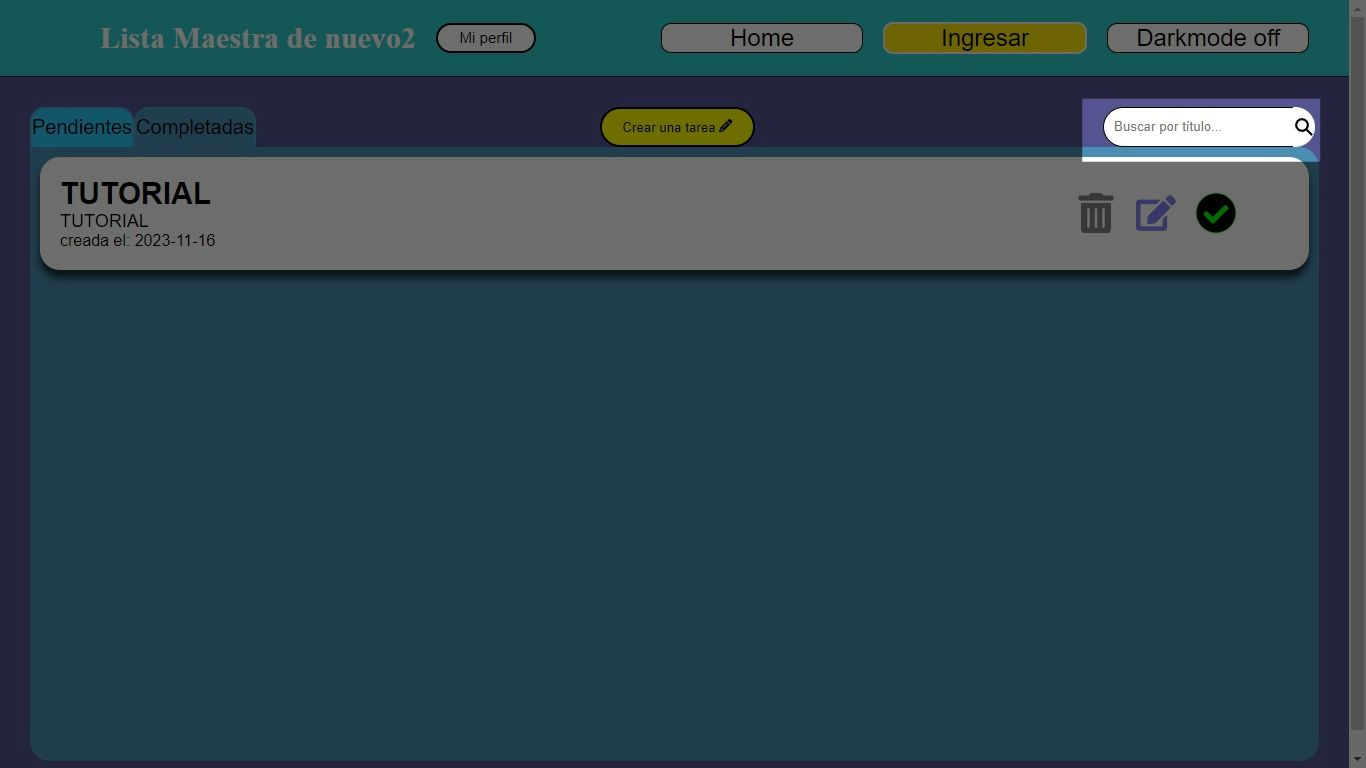
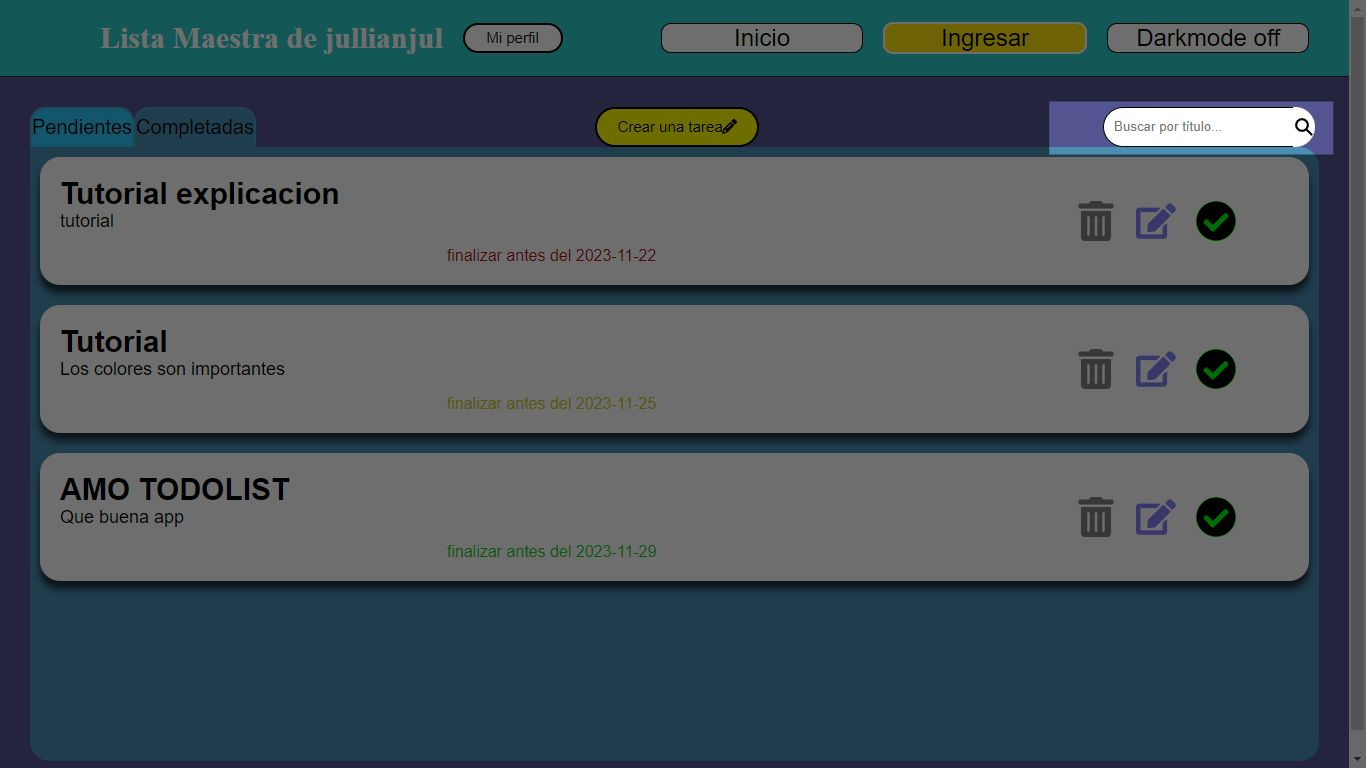
JODER QUE BUENO Q SOY, ahora las todos tienen tiempo de vencimiento, tienen indicadores cromaticos los cuales le comunican al usuario la urgencia de la tarea y las tareas son mostradas en orden desde la mas urgente a la menos urgente

diff --git a/src/Todolistappfunctions/Todofunctions.jsx b/src/Todolistappfunctions/Todofunctions.jsx
@@ -113,6 +113,21 @@ export const Todofunctions = () => {
     return titleMatch && filterCondition;
   });
 
+  const sortedTodos = filteredTodos.sort((a, b) => {
+    const dateA = new Date(a.finishDate);
+    const dateB = new Date(b.finishDate);
+    return dateA - dateB; // Orden ascendente, cambia a dateB - dateA para orden descendente
+  });
+
+  const getDaysRemaining = (finishDate) => {
+    const currentDate = new Date();
+    const finishDateTime = new Date(finishDate);
+    const timeDifference = finishDateTime.getTime() - currentDate.getTime();
+    const daysDifference = Math.ceil(timeDifference / (1000 * 3600 * 24));
+    return daysDifference;
+  };
+
+  //{getDaysRemaining(todo.finishDate.substring(0, 10))}
   return (
     <>
     {itsfirsttime.tutorial && <Firsttimetutorial/>}
@@ -146,18 +161,20 @@ export const Todofunctions = () => {
                 <p>Cargando...</p>
               </div>
             ) : (
-              filteredTodos.length === 0 ? (
+              sortedTodos.length === 0 ? (
 
                 <div className={'no-todos-message'+' no-todos-message'+darkmode}>
                   {itsfirsttime.firstimemessage ? <p>Bienvenido a Tu lista maestra {currentUser.firstName} <br /> crea tu primera tarea para comenzar tu aventura</p> : <p>No hay tareas que coincidan con la búsqueda o filtro seleccionado.</p>}
                 </div>
               ) :
-              (filteredTodos.map((todo) => (
+              (sortedTodos.map((todo) => (
                 <div key={todo._id} className={'todo_container'+' todo_container'+darkmode}>
+                  <div className='Todo_informationandfinalization'>
                   <div className={'Todo_information'+' Todo_information'+darkmode}>
                     <h1 className={'Todo-title t title'+currentFilter+' titletodo'+darkmode}>{todo.name.charAt(0).toUpperCase() + todo.name.slice(1)}</h1>
                     <p className={'todo-description t description'+currentFilter}>{todo.description}</p>
-                    {currentFilter==='pendientes' ? <p>creada el: {todo.finishDate.substring(0, 10)}</p>:<p>finalizada el: {todo.finishDate.substring(0, 10)}</p>}
+                  </div>
+                  {currentFilter==='pendientes' ? <p className={(getDaysRemaining(todo.finishDate.substring(0, 10)))>=4?(`todo safetodotime todo${darkmode}`):((getDaysRemaining(todo.finishDate.substring(0, 10)))<=1?(`todo outoftime todo${darkmode}`):(`todo warningtodotime todo${darkmode}`))}>finalizar antes del {todo.finishDate.substring(0, 10)}</p>:<p>finalizada el: {todo.finishDate.substring(0, 10)}</p>}
                   </div>
                   <div className='Todo_buttons'>
                   {currentFilter=='completadas' &&

diff --git a/src/Todolistappfunctions/Todomodals/Updatetodo.jsx b/src/Todolistappfunctions/Todomodals/Updatetodo.jsx
@@ -8,16 +8,13 @@ const EditForm = ({ todo, onUpdate, onCancel }) => {
   const { darkmode, toggleDarkMode } = useDarkMode();
   const [title, setTitle] = useState(todo.name);
   const [description, setDescription] = useState(todo.description);
+  const [finishDate, setFinishDate] = useState(todo.finishDate.substring(0, 10));
   const [editerror, setEditError]= useState(false);
 
-  const handleUpdate = () => {
-    const date = new Date();
-    var dd = date.getDate();
-    var mm = date.getMonth() + 1;
-    var yyyy = date.getFullYear();
-    var finalDate = yyyy + '-' + mm + '-' + dd;
-    if(title.length>3 && description.length>3){
-      const updatedTodo = { ...todo, name: title, description, finishDate:finalDate,};
+  const handleUpdate = (event) => {
+    event.preventDefault(); // Evitar que se recargue la página al enviar el formulario
+    if(title.length>3 && description.length>3 && !finishDate==''){
+      const updatedTodo = { ...todo, name: title, description, finishDate,};
       onUpdate(updatedTodo);
     }else{
       setEditError(true);
@@ -28,7 +25,7 @@ const EditForm = ({ todo, onUpdate, onCancel }) => {
   }
 
   return (
-    <div className={'edit-container-all'+' edit-container-all'+darkmode}>
+    <form onSubmit={handleUpdate} className={'edit-container-all'+' edit-container-all'+darkmode}>
       <div className={'edit-subcontainer'+' edit-subcontainer'+darkmode}>
           <div className={'edit-exitbutton-container'+' edit-exitbutton-container'+darkmode}>
             {editerror &&   
@@ -49,14 +46,18 @@ const EditForm = ({ todo, onUpdate, onCancel }) => {
               <p className={'todotitles'+' todotitles'+darkmode}>Nueva descripción:</p>
               <textarea type="text" className='edit-input edit-textarea' value={description} onChange={(e) => setDescription(e.target.value)} />
             </label>
+            <label className='edit-label'>
+              <p className={'todotitles' + ' todotitles' + darkmode}>Nueva fecha de finalización:</p>
+              <input type="date" value={finishDate} className='edit-input' onChange={(e) => setFinishDate(e.target.value)} />
+            </label>
           </div>
         </div>
       </div>
       <div className='edit-buttons'>
-            <button onClick={handleUpdate} className={'edit-btn editactu'+' editactu'+darkmode}>Actualizar Tarea</button>
+            <button type='submit' className={'edit-btn editactu'+' editactu'+darkmode}>Actualizar Tarea</button>
             <button onClick={onCancel} className={'edit-btn editcancel'+' editcancel'+darkmode}>Cancelar</button>
           </div>
-    </div>
+    </form>
   );
 };
 

diff --git a/src/Todolistappfunctions/Todomodals/Maininputs.jsx b/src/Todolistappfunctions/Todomodals/Maininputs.jsx
@@ -18,10 +18,15 @@ export const Maininputs = () => {
   const [loading, setLoading] = useState(false); // Nuevo estado para indicar carga
   const [inputerror, setInputError]= useState(false);
   const [inputerrorlength, setInputErrorLength]= useState(false);
+  const [finishDate, setFinishDate] = useState('');
   // Función para manejar el cambio en el input del título
   const handleTitleChange = (event) => {
     setTitle(event.target.value);
     setInputError(false)
+  };
+  const handleFinishDateChange = (event) => {
+    setFinishDate(event.target.value);
+    setInputError(false);
   };
 
   // Función para manejar el cambio en el input de la descripción
@@ -38,18 +43,13 @@ export const Maininputs = () => {
   const handleSubmit = async (event) => {
     event.preventDefault(); // Evitar que se recargue la página al enviar el formulario
 
-    if (title === '' || description === '') {
+    if (title === '' || description === '' || finishDate=='') {
       console.log('papi como me vas a dejar eso en blanco???');
       setInputError(true);
     }else if(title.length<4 || description.length<4){
       setInputErrorLength(true)
     } else {
-      const date = new Date();
-      var dd = date.getDate();
-      var mm = date.getMonth() + 1;
-      var yyyy = date.getFullYear();
-      var finalDate = yyyy + '-' + mm + '-' + dd;
-      //2023-11-11
+      const finalDate=finishDate;
       console.log(finalDate);
 
       const todoData = {
@@ -120,6 +120,15 @@ export const Maininputs = () => {
             <h6 className='todotitles'>Descripcion:</h6>
             <textarea className='formtodo_inputs textareainput' value={description} onChange={handleDescriptionChange} />
           </label>
+          <label className='form_label'>
+          <h6 className='todotitles'>Fecha de finalización:</h6>
+          <input
+            type="date"
+            className='formtodo_inputs'
+            value={finishDate}
+            onChange={handleFinishDateChange}
+          />
+          </label>            
           </div>
         </div>
         <button type="submit" disabled={loading} className='form_create_todos_button'>
@@ -129,3 +138,4 @@ export const Maininputs = () => {
     </>
   );
 };
+

diff --git a/src/Todolistappfunctions/Firsttimetutorial.jsx b/src/Todolistappfunctions/Firsttimetutorial.jsx
@@ -6,6 +6,7 @@ import Carousel3rdimg from '/img/Carousel3rdimg.jpg'
 import Carousel4thimg from '/img/Carousel4thimg.jpg'
 import Carousel5thimg from '/img/Carousel5thimg.jpg'
 import Carousel6thimg from '/img/Carousel6thimg.jpg'
+import Carousel7thimg from '/img/Carousel7thimg.jpg'
 import { IoIosArrowBack } from "react-icons/io";
 import { IoIosArrowForward } from "react-icons/io";
 import { useTodoContext } from '../Context/Todolistcontext';
@@ -47,6 +48,10 @@ export const Firsttimetutorial = () => {
     },
     {
       imageUrl: Carousel6thimg,
+      description: 'Estos colores representan la urgencia de tus tareas: rojo (1 día o menos), amarillo (3 días o menos), y verde (más de 3 días). Tus tareas se ordenan según la fecha, destacando las más urgentes al principio.',
+    },
+    {
+      imageUrl: Carousel7thimg,
       description: 'En la sección de tareas completadas, se encuentran disponibles dos opciones: "Desmarcar tarea" y "Eliminar tarea". El botón de "Desmarcar tarea" tiene la función de actualizar el estado de la tarea, trasladándola a la sección de pendientes.',
       btn:'Finalizar tutorial'
     },
@@ -86,7 +91,7 @@ export const Firsttimetutorial = () => {
                       </div>
                       <div className='description-container'>
                         <p>{slides[currentSlide].description}</p>
-                        {currentSlide==5 &&
+                        {currentSlide==6 &&
                           <div className={'carousel-slide-btn'}>
                                 <button className={'carousel-slide-btn-btn'} onClick={handlecancel}>{slides[currentSlide].btn}</button>
                             </div>
@@ -95,7 +100,7 @@ export const Firsttimetutorial = () => {
                       
                   </div>
               <div className={'Arrow forward_container'+' dissapearf'+currentSlide}>
-                    <p onClick={currentSlide==5?null:handleNextSlide}><IoIosArrowForward/></p>
+                    <p onClick={currentSlide==6?null:handleNextSlide}><IoIosArrowForward/></p>
               </div>
           </div>
       </div>

diff --git a/src/Todolistappfunctions/Todofunctions.css b/src/Todolistappfunctions/Todofunctions.css
@@ -80,8 +80,11 @@
 .todo_containertrue{
     background-color: rgb(56, 55, 55);
 }
-.Todo_information{
+.Todo_informationandfinalization{
     width: 80%;
+}
+.Todo_information{
+    width: 100%;
     min-height: 70px;
     max-height: 120px;
     display: flex;
@@ -207,6 +210,27 @@
     background-color:rgb(56, 55, 55) ;
     color:rgb(211, 245, 16) ;
 }
+.todo-description{
+    font-size: 18px;
+}
+.todo{
+    color: black;
+    text-align: center;
+    border-radius: 20px;
+}
+.todotrue{
+    background-color:rgba(151, 147, 147, 0.651);
+}
+.safetodotime{
+    color: rgb(23, 206, 23);
+}
+.warningtodotime{
+
+    color: rgb(206, 206, 9);
+}
+.outoftime{
+    color: rgb(179, 21, 21);
+}
 @media(max-width:650px){
     .no-todos-message{
         font-size: 20px;
@@ -253,13 +277,13 @@
         font-size: 22px;
     }
     .todo-description{
-        font-size: 15px;
+        font-size: 18px;
     }
     .Todo_information{
-        width: 70%;
+        width: 100%;
     }
     .Todo_buttons{
-        width: 30%;
+        width: 20%;
     }
 }
 @media(max-width:1000px){

diff --git a/src/Todolistappfunctions/Todomodals/Maininputs.css b/src/Todolistappfunctions/Todomodals/Maininputs.css
@@ -27,7 +27,7 @@
     align-items: center;
     flex-direction: column;
     min-width: 290px;
-    min-height: 300px;
+    min-height: 350px;
 }
 .form_containertrue{
     background-color: #1f1f1f;
@@ -42,6 +42,7 @@
     justify-content: center;
     align-items: center;
     flex-direction: column;
+    overflow-y: auto;
     border-radius: 20px;
 }
 .form_container_labelinputstrue{

diff --git a/src/Todolistappfunctions/Firsttimetutorial.css b/src/Todolistappfunctions/Firsttimetutorial.css
@@ -143,10 +143,10 @@
         align-items: center;
     }
 }
-.dissapearb0, .dissapearf5{
+.dissapearb0, .dissapearf6{
     color: rgba(41, 41, 41);
     cursor: auto;
 }
-.dissapearb0:hover, .dissapearf5:hover{
+.dissapearb0:hover, .dissapearf6:hover{
     color: rgba(41, 41, 41);
 }

diff --git a/src/Todolistappfunctions/Todomodals/Updatetodo.css b/src/Todolistappfunctions/Todomodals/Updatetodo.css
@@ -103,4 +103,7 @@
     .edit-container-all{
         min-height: 630px;
     }
+    .edit-subcontainer{
+        width: 80%;
+    }
 }
